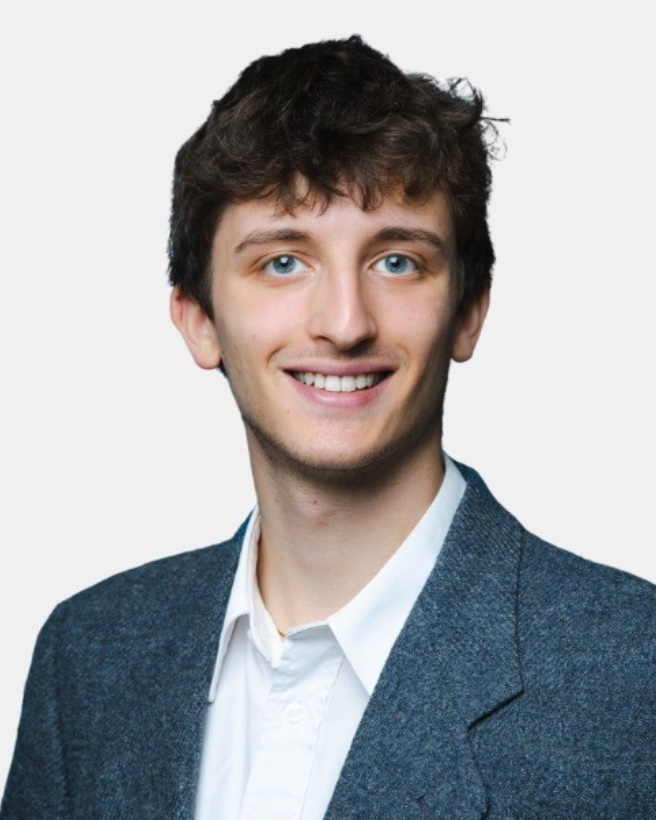
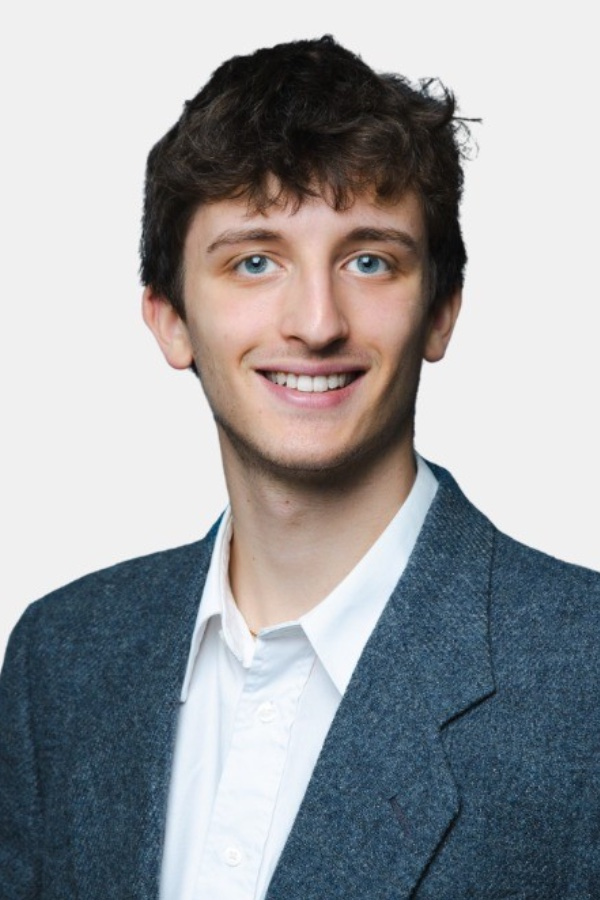
Show Phil's full photo including tie; match Max's frame

diff --git a/src/routes/about.tsx b/src/routes/about.tsx
@@ -38,7 +38,7 @@ function About() {
             <article key={t.name} className="flex h-full flex-col rounded-lg border bg-card p-6 md:p-8">
               <h2 className="text-4xl">{t.name}</h2>
               <p className="mt-1 font-semibold text-primary">{t.role}</p>
-              <img src={t.photo} alt={t.name} className="mt-6 aspect-[4/5] w-56 rounded-lg object-cover object-top shadow-soft md:w-64" />
+              <img src={t.photo} alt={t.name} className="mt-6 aspect-[2/3] w-56 rounded-lg object-cover object-top shadow-soft md:w-64" />
               <p className="mt-4 text-muted-foreground">{t.bio}</p>
               <ul className="mt-auto flex flex-wrap gap-2 pt-6">
                 {t.facts.map((f) => <li key={f} className="rounded-full bg-secondary px-3 py-1 text-sm text-secondary-foreground">{f}</li>)}
